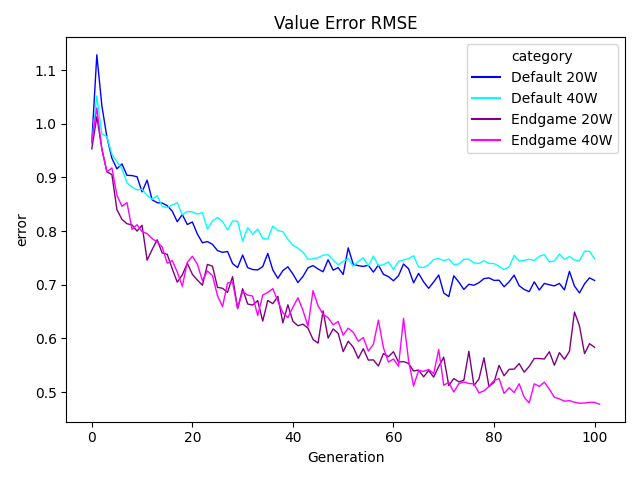
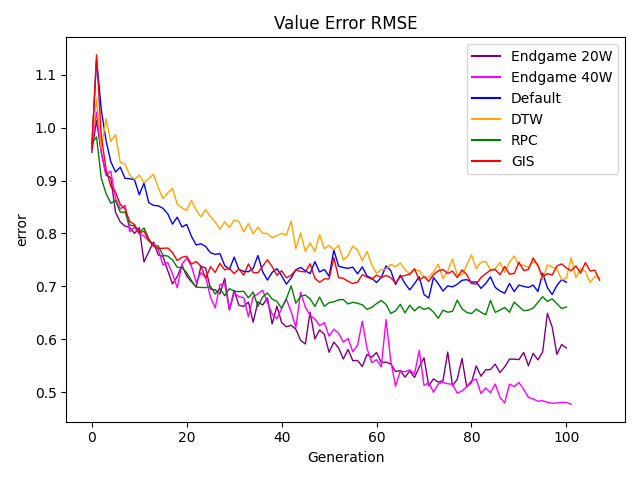
results and plot madifications

diff --git a/py_src/other/plot_with_squad.py b/py_src/other/plot_with_squad.py
@@ -3,33 +3,41 @@ from matplotlib import pyplot as plt
 import pandas as pd
 import seaborn as sns
 
-filenames = {
-    'Default 20W': 'default_hlr.csv',
-    'Default 40W': 'default_big_window.csv',
+# filenames = {
+#     'Default 20W': 'default_hlr.csv',
+#     'Default 40W': 'default_big_window.csv',
+#     'Endgame 20W': 'endgame_normal_window.csv',
+#     'Endgame 40W': 'endgame_big_window.csv',
+# }
 
-    'Endgame 20W': 'endgame_normal_window.csv',
-    'Endgame 40W': 'endgame_big_window.csv',
+
+# color_map = {
+#     "Endgame 20W": "purple",
+#     "Endgame 40W": "magenta",
+#     "Default 20W": "blue",
+#     "Default 40W": "cyan"
+    # randomized_cap: green
+    # "Dynamic Window": "orange",
+    # "Monotone": "purple"
+# }
+
+filenames = {
+    "Endgame 20W": "endgame_normal_window.csv",
+    "Endgame 40W": "endgame_big_window.csv",
+    "Default": "default_hlr.csv",
+    "DTW": "dyn_window_high_lr.csv",
+    "RPC": "random_cap_more_games.csv",
+    "GIS": "monotone.csv",
 }
 
 color_map = {
     "Endgame 20W": "purple",
     "Endgame 40W": "magenta",
-    "Default 20W": "blue",
-    "Default 40W": "cyan"
-    # randomized_cap: green
-    # "Dynamic Window": "orange",
-    # "Monotone": "purple"
+    "Default": "blue",
+    "RPC": "green",
+    "DTW": "orange",
+    "GIS": "red"
 }
-
-# color_map = {
-#     "Endgame": "red",
-#     # Endgame bw: pink
-#     "Default": "blue",
-#     # Default bw: cyan
-#     # randomized_cap: green
-#     "Dynamic Window": "orange",
-#     "Monotone": "purple"
-# }
 
 
 fig_path = Path("./squad_figures")
@@ -50,6 +58,7 @@ def plot_errors(df, x, val_col, title, fname) -> None:
         palette=color_map,
         linewidth=1
     )
+    plt.legend(title='')
 
     xlabel = "Generation" if x == "gen" else "Simulations"
     plt.xlabel(xlabel)

diff --git a/py_src/graph_competitions_together.py b/py_src/graph_competitions_together.py
@@ -14,20 +14,21 @@ from scipy.stats import norm
 # VS = 'Perfect Agent'
 
 # runs_dirnames = {
+#     'Endgame 20W': 'ENDGAME_normal_window_deterministic',
+#     'Endgame 40W': 'ENDGAME_PLAYOUTS_BIG_WINDOW_deterministic',
 #     'Default': 'DEFAULT_high_lr_deterministic',
-#     'GIS': 'MONOTONE_deterministic',
-#     'Endgame': 'ENDGAME_normal_window_deterministic',
-#     'Endgame big window': 'ENDGAME_PLAYOUTS_BIG_WINDOW_deterministic',
 #     'DTW': 'DYN_WINDOW_high_lr_deterministic',
+#     'RPC': "RANDOM_CAP_more_games_deterministic",
+#     'GIS': 'MONOTONE_deterministic',
 # }
 
 # color_map = {
-#     "Endgame": "purple",
+#     "Endgame 20W": "purple",
 #     "Default": "blue",
 #     # "Endgame big window": "plum",
-#     "Endgame big window": "magenta",
+#     "Endgame 40W": "magenta",
 #     # Default bw: cyan
-#     # randomized_cap: green
+#     "RPC": "green",
 #     "DTW": "orange",
 #     "GIS": "red"
 # }
@@ -43,9 +44,10 @@ VS = 'Default generation 100'
 
 
 runs_dirnames = {
+    "Endgame 25W": "DEFAULT_5000_gamesvsENDGAME_PLAYOUTS_uniat100_few_games_const_100" ,
+    "Endgame 40W": "DEFAULT_5000_gamesvsENDGAME_low_pow_const_100",
     "Default":"DEFAULT_5000_gamesvsDEFAULT_5000_games_const_100" ,
     "DTW":"DEFAULT_5000_gamesvsDYN_WINDOW_const_1.0", 
-    "Endgame":"DEFAULT_5000_gamesvsENDGAME_PLAYOUTS_uniat100_few_games_const_100" ,
     "GIS":"DEFAULT_5000_gamesvsMONOTONE_const_100" ,
     # "DEFAULT_5000_gamesvsrandomized_cap_const_1.0"
 }
@@ -53,7 +55,8 @@ runs_dirnames = {
 
 
 color_map = {
-    "Endgame": "purple",
+    "Endgame 25W": "purple",
+    "Endgame 40W": "magenta",
     "Default": "blue",
     # Default bw: cyan
     # randomized_cap: green
